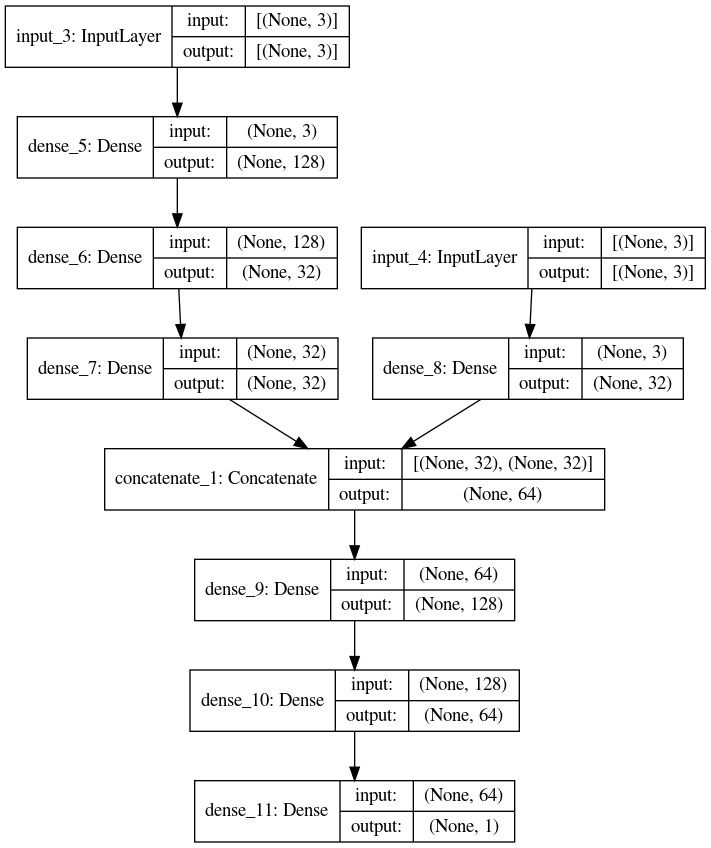
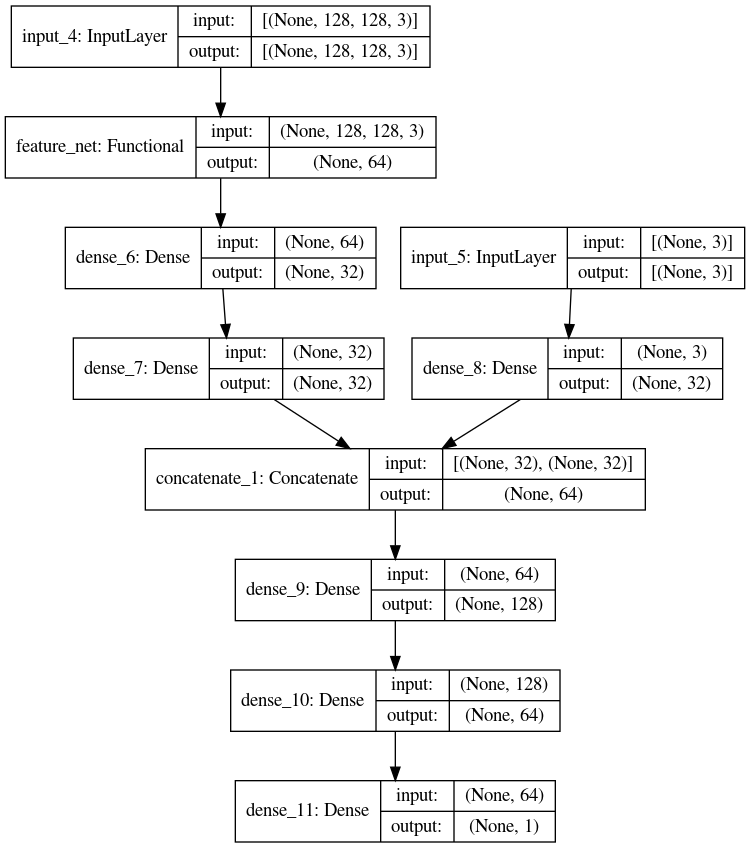
trying ipg-her-image with pbmg

Changed region(s): [[0.0, 0.0, 1.0, 1.0]]

diff --git a/src/pbmg/ipg_her_pbmg.py b/src/pbmg/ipg_her_pbmg.py
@@ -8,6 +8,7 @@ Input frames can be stacked together.
 
 import sys
 import numpy as np
+from numpy.lib.npyio import load
 import tensorflow as tf
 import tensorflow_probability as tfp
 import os
@@ -16,6 +17,8 @@ import random
 import sys
 from collections import deque
 import wandb
+import imageio 
+import matplotlib.pyplot as plt
 
 # Add the current folder to python's import path
 current_dir = os.path.dirname(os.path.realpath(__file__))
@@ -32,7 +35,13 @@ import pybullet_multigoal_gym as pmg
 class IPGHERAgent_pbmg(IPGHERAgent):
 
     # Validation routine
-    def validate(self, env, max_eps=50):
+    def validate(self, env, max_eps=50, render=False, load_path=None):
+
+        if load_path is not None:
+            self.load_model(load_path)
+
+        if render:
+            images = []
         ep_reward_list = []
         for ep in range(max_eps):
 
@@ -52,8 +61,13 @@ class IPGHERAgent_pbmg(IPGHERAgent):
                 goal_obs = env.reset()['desired_goal']
                 state_obs = env.reset()['observation']
 
+            if render:
+                img = env.render(mode='rgb_array')
+                images.append(img)
+
             ep_reward = 0
             while True:
+
                 if self.stack_size > 1:
                     state_buffer.append(state_obs)
                     goal_buffer.append(goal_obs)
@@ -66,6 +80,11 @@ class IPGHERAgent_pbmg(IPGHERAgent):
                 #action = self.policy(state, goal, deterministic=True)
                 action = self.policy(state, goal, deterministic=True)
                 next_obs, reward, done, _ = env.step(action)
+
+
+                if render:
+                    img = env.render(mode='rgb_array')
+                    images.append(img)
 
                 if self.image_input:
                     next_state_obs = np.asarray(next_obs['observation'], dtype=np.float32) / 255.0
@@ -85,10 +104,16 @@ class IPGHERAgent_pbmg(IPGHERAgent):
                     break
         # outside for loop
         mean_ep_reward = np.mean(ep_reward_list)
+
+        if render:
+            imageio.mimsave('./pbmg_reach.gif', np.array(images), fps=10)
+
         return mean_ep_reward
 
     
-    def run(self, env, WB_LOG=False, success_value=None, filename=None, chkpt_freq=None, path='./' ):
+    def run(self, env, max_seasons=200, training_batch=2560, 
+                WB_LOG=False, success_value=None, 
+                filename=None, chkpt_freq=None, path='./'):
 
         if filename is not None:
             filename = uniquify(path + filename)
@@ -115,7 +140,7 @@ class IPGHERAgent_pbmg(IPGHERAgent):
         ep_scores = []              # episodic rewards
         self.episodes = 0           # global episode count
         self.global_time_steps = 0       # global time steps
-        for s in range(self.max_seasons):
+        for s in range(max_seasons):
             # discard trajectories from previous season
             states, next_states, actions, rewards, dones, goals = [], [], [], [], [], []
             ep_experience = []     # episodic experience buffer
@@ -124,7 +149,7 @@ class IPGHERAgent_pbmg(IPGHERAgent):
             ep_cnt = 0          # episodes in each season
             ep_len = 0          # length of each episode
             done = False
-            for _ in range(self.training_batch):    # time steps
+            for _ in range(training_batch):    # time steps
 
                 if self.stack_size > 1:
                     state_buffer.append(state_obs)
@@ -266,7 +291,7 @@ class IPGHERAgent_pbmg(IPGHERAgent):
                             'Season' : s})
 
             if chkpt_freq is not None and s % self.chkpt_freq == 0:          
-                chkpt_path = self.path + 'chkpt_{}/'.format(s)
+                chkpt_path = path + 'chkpt_{}/'.format(s)
                 self.save_model(chkpt_path)
 
             if filename is not None:
@@ -288,5 +313,7 @@ class IPGHERAgent_pbmg(IPGHERAgent):
         env.close()
 
         # Save the final model
-        final_model_path = self.path + 'final_model/'
+        final_model_path = path + 'final_model/'
         self.save_model(final_model_path)
+
+        

diff --git a/src/pbmg/main.py b/src/pbmg/main.py
@@ -65,8 +65,8 @@ print('Found GPU at: {}'.format(device_name))
 # #### Hyper-parameters for RACECAR Environment
 ##########################################
 config_dict = dict(
-    buffer_capacity = 100000,    # 50k (racecar)  # 20K (kuka)
-    batch_size = 256,  # 512 (racecar) #   128 (kuka)
+    buffer_capacity = 30000,    # 50k (racecar)  # 20K (kuka)
+    batch_size = 128,  # 512 (racecar) #   128 (kuka)
     # use_attention = {'type': 'luong',   # type: luong, bahdanau
     #                  'arch': 0,         # arch: 0, 1, 2, 3
     #                  'return_scores': False},  # visualize attention maps       
@@ -77,11 +77,11 @@ config_dict = dict(
                 'extract_feature' : False}, 
     stack_size = 0,             # input stack size
     use_lstm = False,             # enable /disable LSTM
+    image_obsvn=True
 )
 #######################
 WB_LOG = True
 ############################
-# Google Colab Settings
 save_path = './log/'
 chkpt_freq = None         # wrt seasons
 load_path = None
@@ -94,8 +94,8 @@ save_path = save_path + current_time + '/'
 logfile = None  # Don't write  into file
 ###########################################
 # wandb related configuration
-import wandb
 if WB_LOG:
+    import wandb
     #WANDB_API_KEY=os.environ['MY_WANDB_API_KEY']
     print("WandB version", wandb.__version__)
     wandb.login()
@@ -111,15 +111,15 @@ if __name__ == "__main__":
                 'cameraEyePosition': [-1.0, 0.25, 0.6],
                 'cameraTargetPosition': [-0.6, 0.05, 0.2],
                 'cameraUpVector': [0, 0, 1],
-                'render_width': 128,
-                'render_height': 128
+                'render_width': 64,
+                'render_height': 64
             },
             {
                 'cameraEyePosition': [-1.0, -0.25, 0.6],
                 'cameraTargetPosition': [-0.6, -0.05, 0.2],
                 'cameraUpVector': [0, 0, 1],
-                'render_width': 128,
-                'render_height': 128
+                'render_width': 64,
+                'render_height': 64
             }
         ]
 
@@ -129,11 +129,11 @@ if __name__ == "__main__":
             task='reach',
             gripper='parallel_jaw',
             num_block=4,  # only meaningful for multi-block tasks
-            render=False,
+            render=False,    # only for saving image
             binary_reward=True,
             max_episode_steps=20,
             # image observation args
-            image_observation=False,
+            image_observation=config_dict['image_obsvn'],
             depth_image=False,
             goal_image=True,
             visualize_target=True,
@@ -144,10 +144,11 @@ if __name__ == "__main__":
             use_curriculum=True,
             num_goals_to_generate=90)
 
+        
+
 
     #print('Observation:', env.observation_space)
-    image_observation = False
-    if image_observation: 
+    if config_dict['image_obsvn']: 
         state_size = env.observation_space['observation'].__getattribute__('shape')
     else:
         state_size = env.observation_space['state'].__getattribute__('shape')
@@ -186,7 +187,10 @@ if __name__ == "__main__":
     elif config_dict['algo'] == 'ipg':
         pass
     elif config_dict['algo'] == 'ipg_her':
-        agent = IPGHERAgent_pbmg(state_size, action_size, upper_bound,
+        agent = IPGHERAgent_pbmg(
+                                state_size=state_size, 
+                                action_size=action_size, 
+                                upper_bound=upper_bound,
                                 buffer_capacity=config_dict['buffer_capacity'],
                                 batch_size=config_dict['batch_size'],
                                 use_her=config_dict['use_her'])
@@ -205,5 +209,11 @@ if __name__ == "__main__":
         raise ValueError('Invalid Choice of Algorithm. Exiting ...')
 
     # Train
-    #agent.run(env, train_freq=1, WB_LOG=WB_LOG)
     agent.run(env, WB_LOG=WB_LOG)
+
+
+    # test
+    # print('Mean Episodic Reward:', agent.validate(env, max_eps=50, render=True, load_path='./best_model/'))
+    
+
+

diff --git a/src/algo/ipg_her.py b/src/algo/ipg_her.py
@@ -214,10 +214,8 @@ class IPGHERAgent:
     def __init__(self, state_size, action_size, upper_bound, 
                         buffer_capacity=100000,
                         batch_size=256,
-                        max_seasons=100,
                         learning_rate=0.0002,
                         epochs=20,
-                        training_batch=5120,
                         epsilon=0.2,
                         gamma=0.95,
                         lmbda=0.7,
@@ -230,12 +228,10 @@ class IPGHERAgent:
         self.action_size = action_size
         self.goal_size = self.state_size
         self.upper_bound = upper_bound
-        self.max_seasons = max_seasons
         self.episodes = 0       # global episode count
         self.global_time_steps = 0      # global time steps
         self.lr = learning_rate 
         self.epochs = epochs
-        self.training_batch = training_batch
         self.batch_size = batch_size
         self.buffer_capacity = buffer_capacity
         self.epsilon = epsilon          # PPO clip factor
@@ -264,9 +260,9 @@ class IPGHERAgent:
             
             if self.use_lstm:
                 assert self.stack_size > 1, "stack_size must be greater than 0 for lstm"
-                self.feature = CNNLSTMFeatureNetwork(self.state_size, self.attention, self.lr_a)
+                self.feature = CNNLSTMFeatureNetwork(self.state_size, self.attention, self.lr)
             else:
-                self.feature = FeatureNetwork(self.state_size, self.attention, self.lr_a)
+                self.feature = FeatureNetwork(self.state_size, self.attention, self.lr)
         else:       # non-image input
             print('You have selected a non-image input.')
             self.feature = None
@@ -545,7 +541,9 @@ class IPGHERAgent:
             attn_img = wandb.Image(attn_array)
             wandb.log({'attention maps_{}'.format(i): attn_img})
 
-    def run(self, env, filename='ipg_her_output.txt', WB_LOG=False, success_value=None, chkpt_freq=None, path='./'):
+    def run(self, env, max_seasons=100, training_batch=5120, 
+                filename='ipg_her_output.txt', WB_LOG=False, 
+                    success_value=None, chkpt_freq=None, path='./'):
 
         if filename is not None:
             filename = uniquify(self.path + filename)
@@ -576,7 +574,7 @@ class IPGHERAgent:
         ep_lens = []                # episode lengths 
         ep_scores = []              # episodic rewards
         self.episodes = 0           # global episode count
-        for s in range(self.max_seasons):
+        for s in range(max_seasons):
             # discard trajectories from previous season
             states, next_states, actions, rewards, dones, goals = [], [], [], [], [], []
             ep_experience = []     # episodic experience buffer
@@ -585,7 +583,7 @@ class IPGHERAgent:
             ep_cnt = 0          # episodes in each season
             ep_len = 0          # length of each episode
             done = False
-            for _ in range(self.training_batch):    # time steps
+            for _ in range(training_batch):    # time steps
 
                 if self.stack_size > 1:
                     state_buffer.append(state_obs)

diff --git a/src/pbmg/sac_her_pbmg.py b/src/pbmg/sac_her_pbmg.py
@@ -41,7 +41,7 @@ class SACHERAgent_pbmg(SACHERAgent):
                 [state_, action_, hind_reward, next_state_, done_, hind_goal]
             )
 
-    def validate(self, env, max_eps=20):
+    def validate(self, env, max_eps=50):
         ep_reward_list = []
         for ep in range(max_eps):
             obs = env.reset()
@@ -61,10 +61,15 @@ class SACHERAgent_pbmg(SACHERAgent):
 
                 if self.image_input:
                     next_state = np.asarray(next_obs['observation'], dtype=np.float32) / 255.0
+                    next_goal = np.asarray(next_obs['desired_goal_img'], dtype=np.float32) / 255.0
                 else:
                     next_state = next_obs['observation']
+                    next_goal = next_obs['desired_goal']
 
+                # convert negative reward to positive reward
+                reward = 1 if reward == 0 else 0
                 state = next_state
+                goal = next_goal
                 ep_reward += reward
                 t += 1
                 if done:
@@ -74,11 +79,9 @@ class SACHERAgent_pbmg(SACHERAgent):
         mean_ep_reward = np.mean(ep_reward_list)
         return mean_ep_reward
 
-    def run(self, env, max_episodes=5000, train_freq=1, WB_LOG=True):
-
+    def run(self, env, max_episodes=50000, train_freq=10, WB_LOG=True):
 
         start = datetime.datetime.now()
-        
         val_scores = []                 # validation scores 
         best_score = -np.inf
         ep_lens = []        # episodic length
@@ -106,12 +109,17 @@ class SACHERAgent_pbmg(SACHERAgent):
                 action, _ = self.sample_action(state, goal)
                 next_obs, reward, done, _ = env.step(action)
 
+                # change negative reward to positive
+                reward = 1 if reward == 0 else 0
+
                 if self.image_input:
                     next_state = np.asarray(next_obs['observation'], dtype=np.float32) / 255.0
                     achieved_goal = np.asarray(next_obs['achieved_goal_img'], dtype=np.float32) / 255.0
+                    next_goal = np.asarray(next_obs['desired_goal_img'], dtype=np.float32) / 255.0
                 else:
                     next_state = next_obs['observation']
                     achieved_goal = next_obs['achieved_goal']
+                    next_goal = np.asarray(next_obs['desired_goal'])
 
                 # store in replay buffer for off-policy training
                 self.buffer.record([state, action, reward, next_state, done, goal])
@@ -120,6 +128,7 @@ class SACHERAgent_pbmg(SACHERAgent):
                 ep_experience.append([state, action, reward, next_state, done, goal])
 
                 state = next_state
+                goal = next_goal
                 ep_score += reward
                 ep_len += 1     # no. of time steps in each episode
                 global_steps += 1
@@ -144,7 +153,7 @@ class SACHERAgent_pbmg(SACHERAgent):
                 ep_alpha_losses.append(alpha_loss)
 
                 # validate
-                val_score = self.validate(env, max_eps=20)
+                val_score = self.validate(env)
                 val_scores.append(val_score)
 
                 if WB_LOG:
